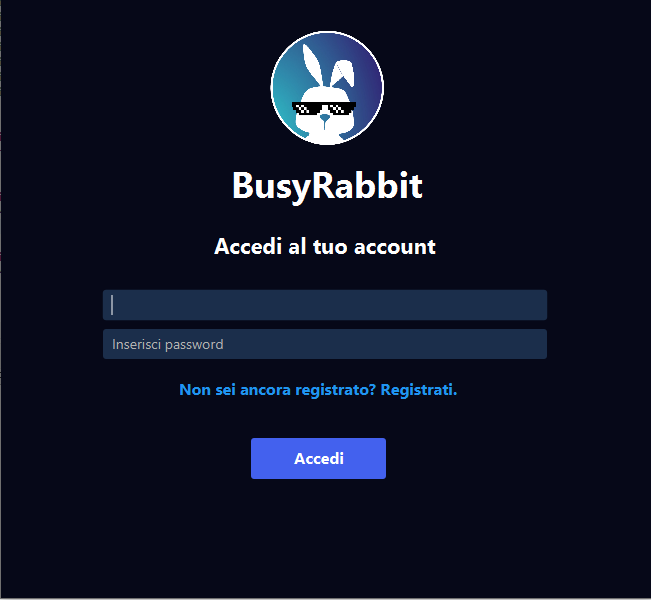
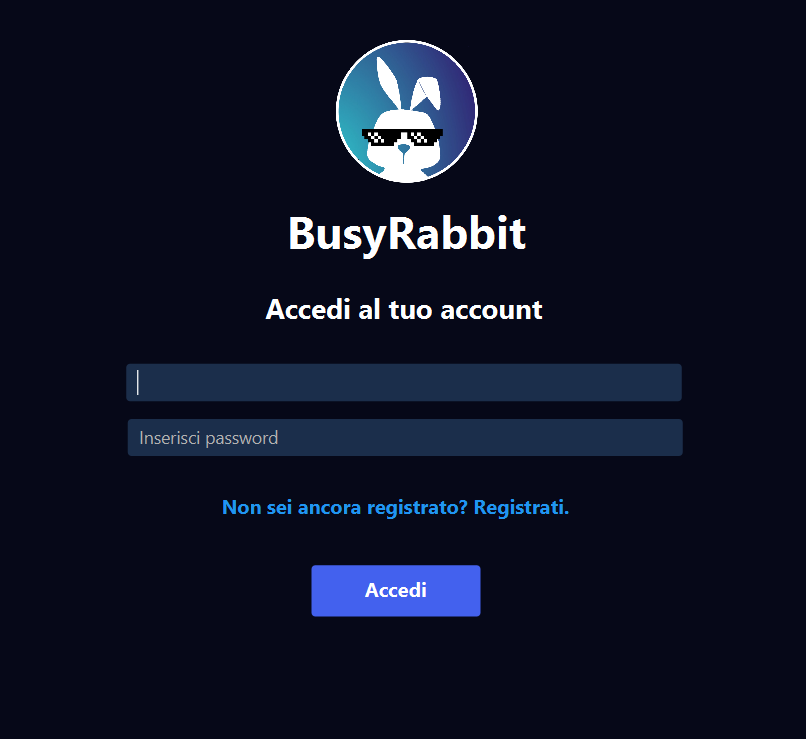
Update README.md

diff --git a/README.md b/README.md
@@ -14,7 +14,7 @@ BusyRabbit è un'app per la produttività personale per studenti e freelancer. E
 Crea un account e salva tutti i tuoi dati.
 
 <p align="center">
-    <img src="/readme_imgs/login.png" width="700">
+    <img src="/readme_imgs/login.png" width="400">
 </p> 
 
 ### Time tracker
@@ -51,6 +51,14 @@ Visualizza le statistiche per i tempi e le abitudini.
 
 <p align="center">
     <img src="/readme_imgs/dashboard2.PNG" width="700">
+</p> 
+
+### Impostazioni
+
+Modifica le opzioni dell'account.
+
+<p align="center">
+    <img src="/readme_imgs/impostazioni.PNG" width="700">
 </p> 
 
 ### Funzionalità
